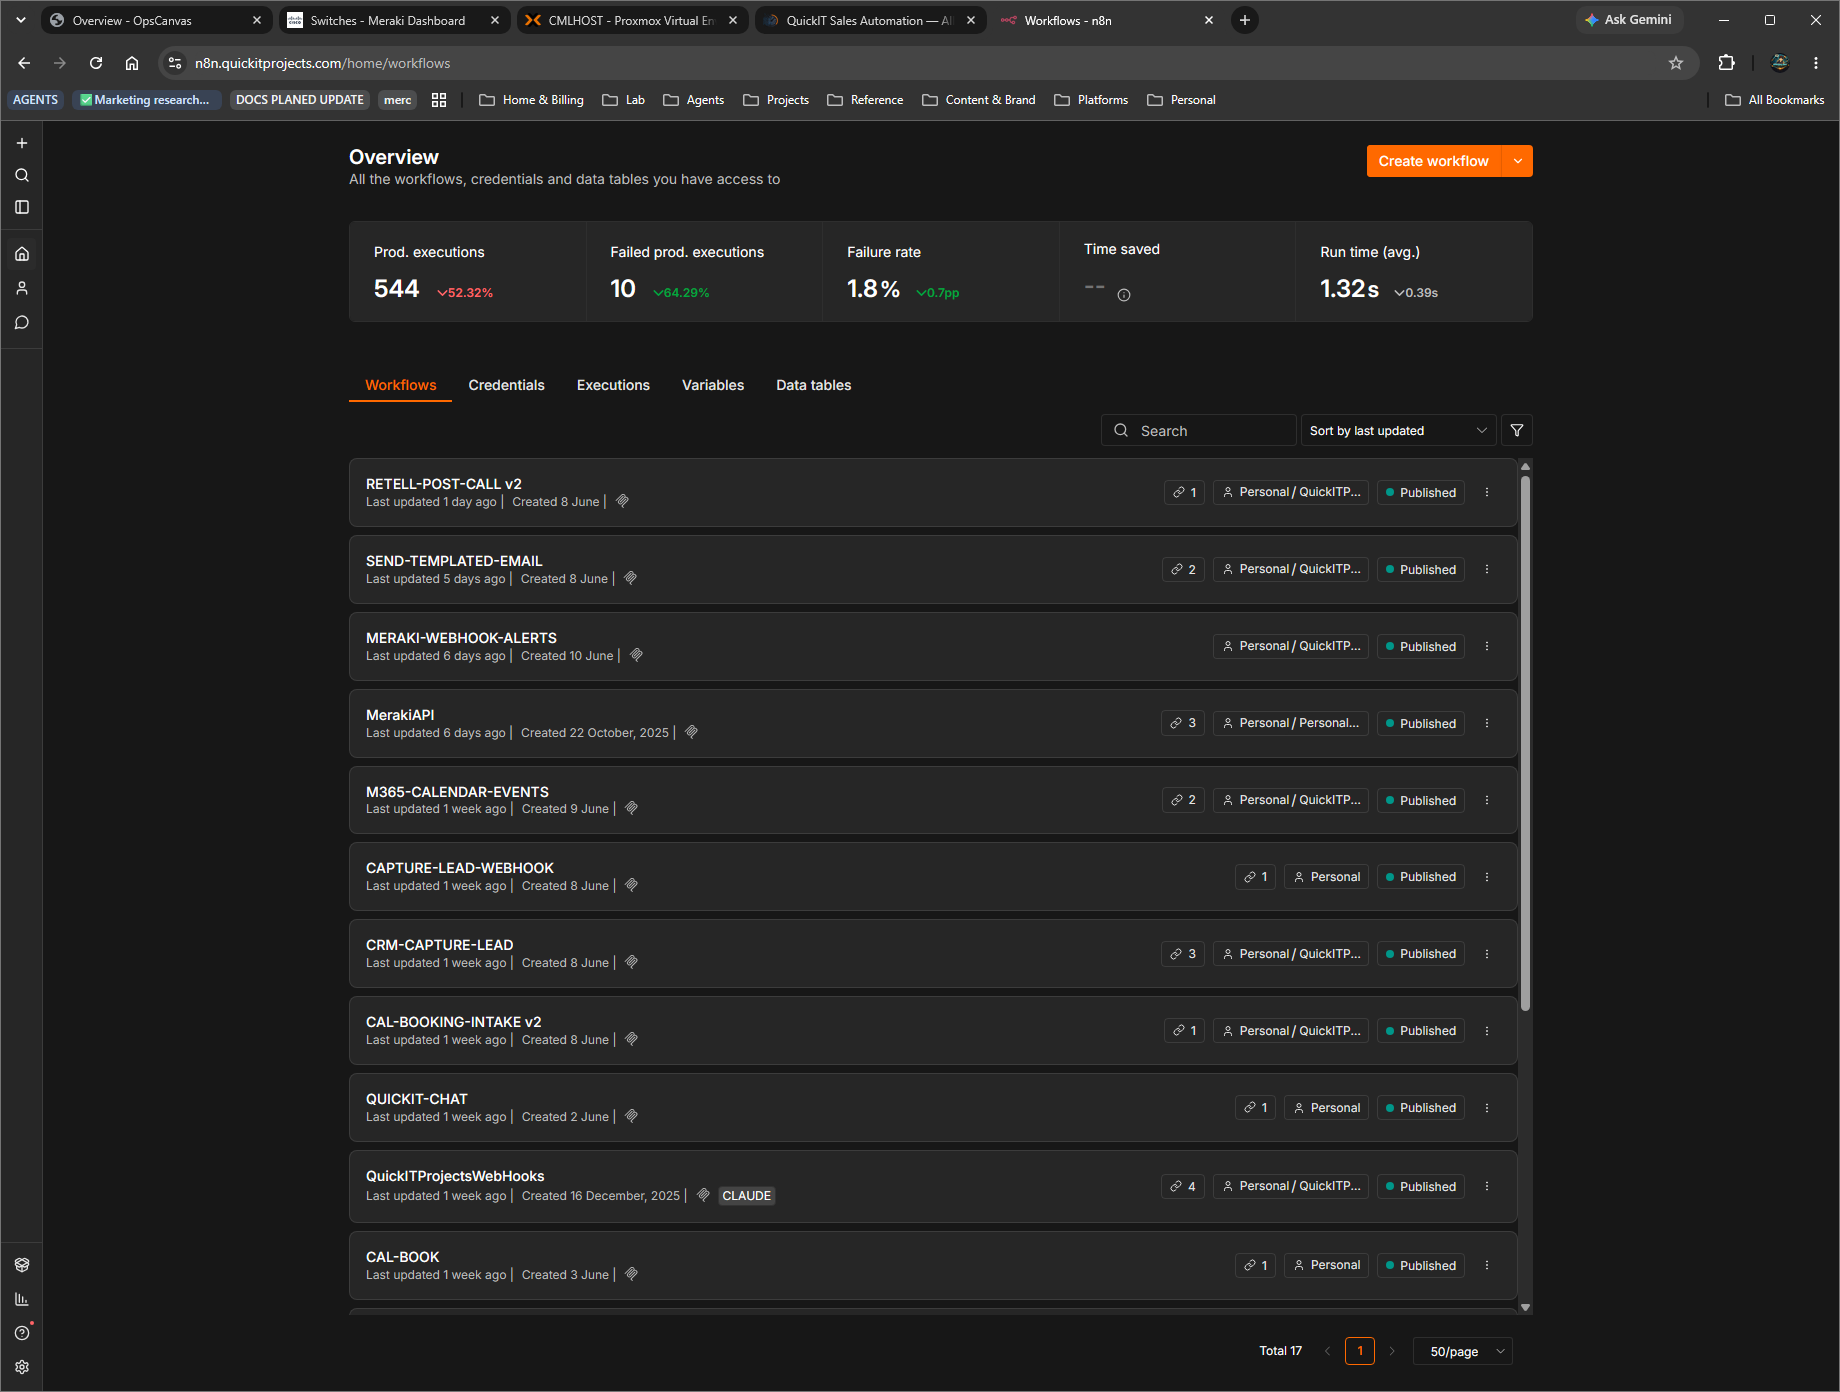
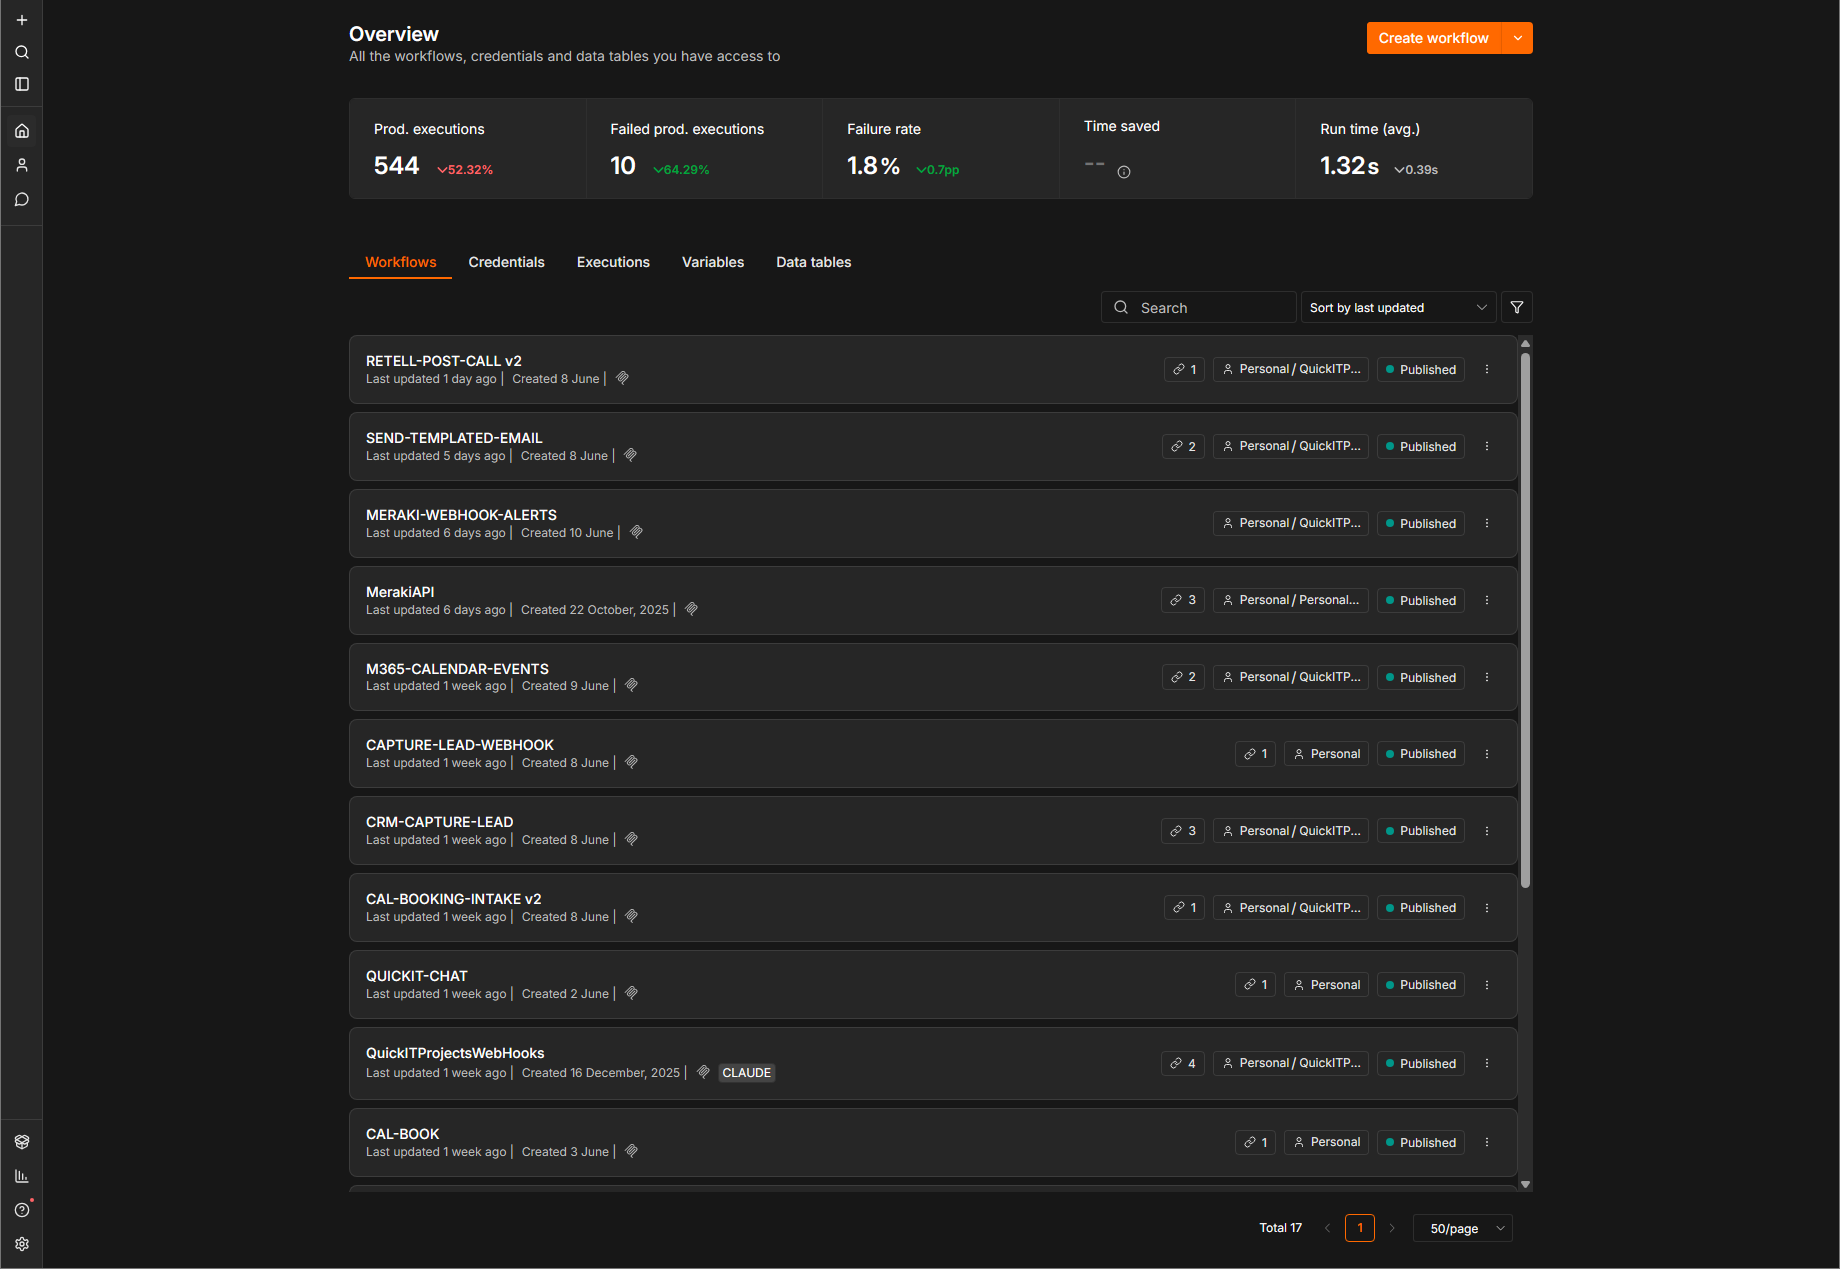
Networking pages tied together (Network Design hub + MerakiNOC + netadmintoolbox); cross-links; live URL

diff --git a/src/content/projects/web-design.md b/src/content/projects/web-design.md
@@ -1,0 +1,24 @@
+---
+title: "Web Design & Development"
+summary: "The common thread under most of my projects: landing pages, docs portals, dashboards, customer portals, and marketing sites, built across plain HTML through React and Astro."
+status: "Service"
+order: 10
+tags: ["Web", "Design", "Front-end"]
+stack: ["HTML / CSS / JS", "React", "Astro", "Tailwind", "Static + dynamic"]
+---
+
+Website design crept up on me. Every project I built, home lab services, AI apps, business ideas, automation, eventually needed a front end: a landing page, a docs portal, a dashboard, a customer portal, a marketing site. So I learned to build them myself instead of leaning on templates.
+
+I taught myself by shipping. Personal sites and a blog, company and marketing sites, AI demo pages, customer portals, documentation platforms, dashboards, and lead-capture pages. Each one forced a new piece of design, front-end, or UX. I deliberately avoided getting locked into one framework: plain HTML, CSS, and JavaScript, React, Astro, drag-and-drop builders, component libraries, static sites and dynamic apps, whatever fit the job.
+
+## Patterns worth reusing
+
+After enough builds, the same pieces kept showing up: navigation, contact forms, docs, authentication, dashboards, scheduling, chat, lead capture. So I started turning them into reusable templates and design standards I can drop into a new project, which cuts build time and keeps things consistent.
+
+## A few that came out of it
+
+These are the web projects with their own pages: a [custom client portal](/projects/custom-client-portal), a [payment portal](/projects/payment-portal), a deployable [intake landing page](/projects/intake-landing-page), and the [CCDE Study Companion](/projects/ccde-study).
+
+## What it taught me
+
+A powerful app still fails if people can't figure out how to use it. Good design is mostly about making technology approachable: clear layouts, sensible customer journeys, organized content, and interfaces that work on any screen. Translating a complex system into something a non-technical person can actually use is the part I care about most, and it shows up in everything else I build.

diff --git a/src/content/projects/media-stack.md b/src/content/projects/media-stack.md
@@ -4,7 +4,7 @@ summary: "A self-hosted media platform: Plex plus the full *arr automation stack
 status: "Live"
 order: 13
 tags: ["Self-hosted", "Automation"]
-stack: ["Plex", "Sonarr", "Radarr", "Jellyseerr", "Docker", "VPN"]
+stack: ["Plex", "Sonarr", "Radarr", "Overseerr", "Docker", "VPN"]
 image: "/projects/media-stack/hero.png"
 ---
 